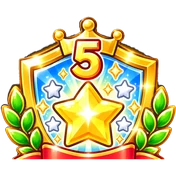
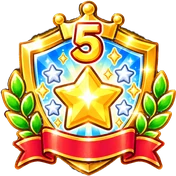
v44: rank-5 を 作り直して 差しかえ
元ファイルが 途中で 切れて いて リボンの 先が 欠けていた。
となりの rank-4 と rank-6 を 参考画像に して 作り直し、7枚 そろった。

diff --git a/sw.js b/sw.js
@@ -1,5 +1,5 @@
 /* すずドリル service worker — offline cache */
-const VERSION = 'suzu-drill-v43';
+const VERSION = 'suzu-drill-v44';
 const CORE = [
   './', './index.html', './manifest.webmanifest', './icon-192.png',
   './icon-512.png', './icon-180.png', './icon-maskable-512.png', './img/splash.webp',
